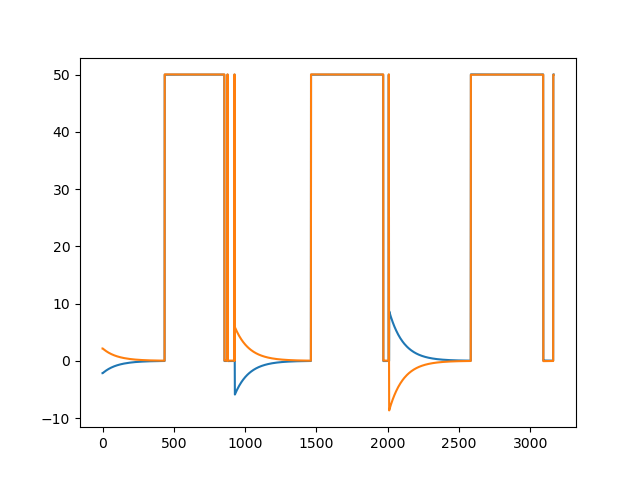
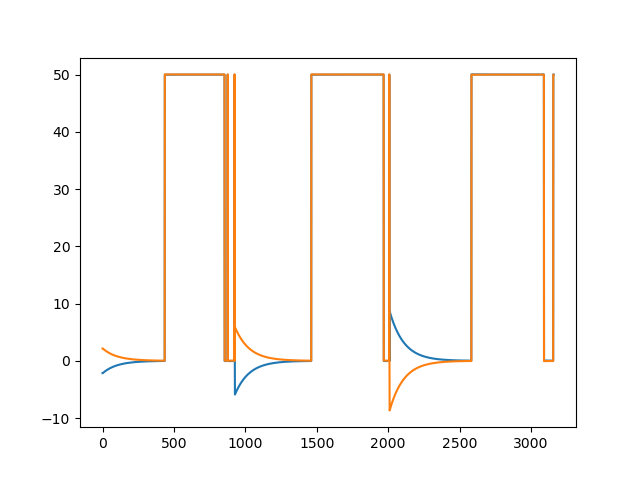
на графике fi_k изменяется хорошо

diff --git a/scripts/talker.py b/scripts/talker.py
@@ -47,6 +47,7 @@ y = []
 
 omega_arr = []
 phi_ref_arr = []
+phi_k_arr = []
 
 v_l_arr = []
 v_r_arr = []
@@ -66,7 +67,7 @@ def step(x_k, y_k, fi_k, dt, v, omega):
     return x_k, y_k, fi_k
  
 def go_to_point(x_k, y_k, fi_k, x_ref, y_ref, v, dt):
-    global x,y, omega_arr, phi_ref_arr
+    global x, y, phi_k_arr, omega_arr, phi_ref_arr
  
     coeff = 1
     
@@ -79,6 +80,7 @@ def go_to_point(x_k, y_k, fi_k, x_ref, y_ref, v, dt):
     
     x.append(x_k)
     y.append(y_k) 
+    phi_k_arr.append(fi_k)
     phi_ref_arr.append(fi_ref)
     omega_arr.append(omega)
 
@@ -154,7 +156,7 @@ def talker():
         v_l_arr.append(v_l)
         v_r_arr.append(v_r)
 
-        # я понял в чём проблема с вращением! ведь мы должны вращаться 
+        # я понял в чём проблема с вращением! ведь мы должны вращаться с какой-то своей скоростью, а вращаемся с другой... 
 
         if v_r <= 0:
                 v_r = 0
@@ -191,6 +193,10 @@ if __name__ == '__main__':
     
     plt.plot(phi_ref_arr)
     plt.savefig('fi_ref.png')
+    plt.clf()
+
+    plt.plot(phi_k_arr)
+    plt.savefig('fi_k.png')
     plt.clf()
 
     plt.plot(v_l_arr)
